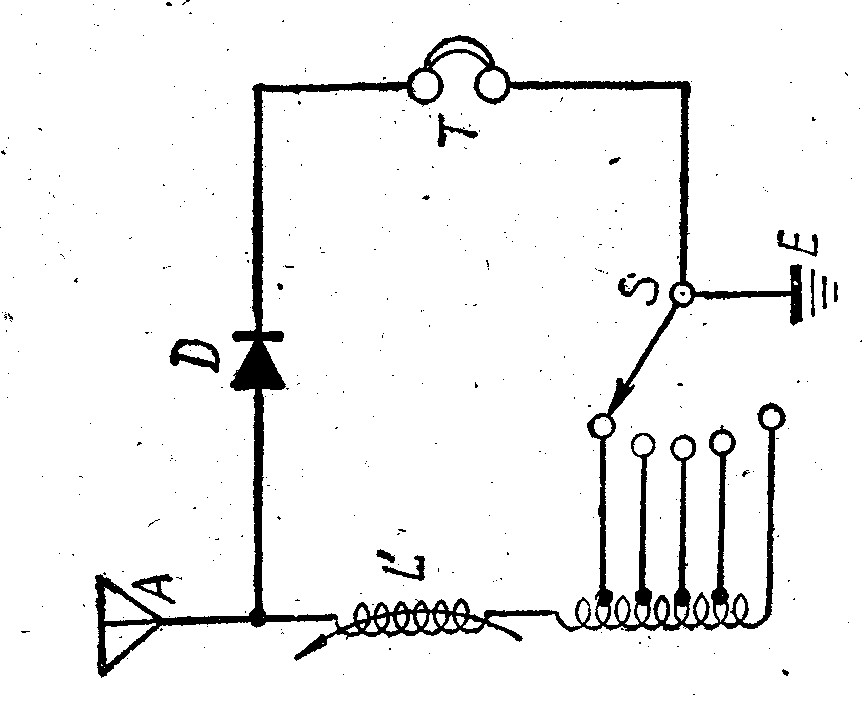
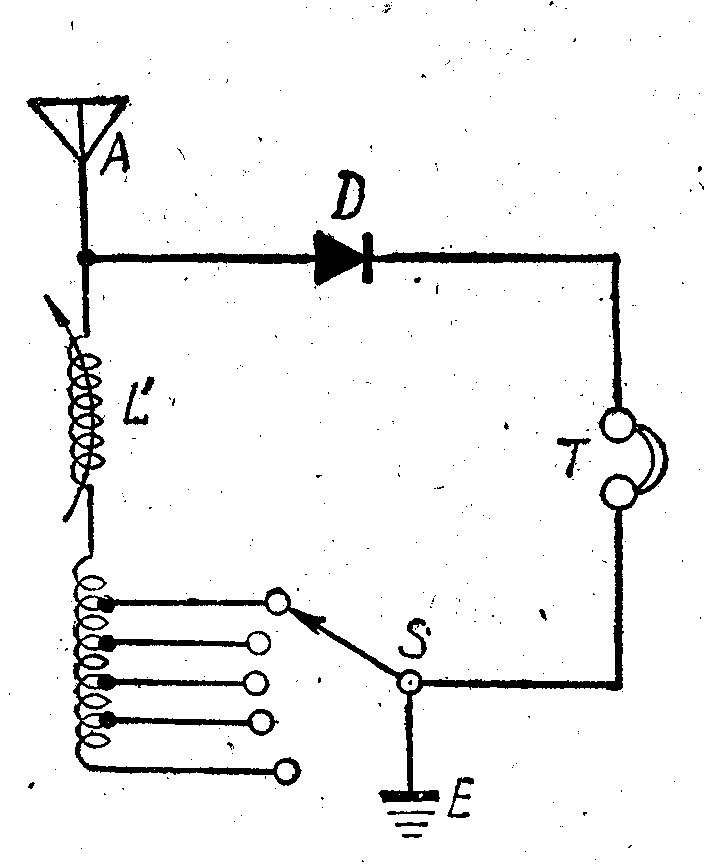
内容更新。

Changed region(s): [[0.0312, 0.0312, 0.9688, 0.9688], [0.6875, 0.2188, 0.7188, 0.25]]

diff --git a/整理中/1_原文校对/无线电设备/矿石收音机.tex b/整理中/1_原文校对/无线电设备/矿石收音机.tex
@@ -958,6 +958,10 @@ f = \frac{1}{T}
 
 将线圈分出一个活动的部分和固定的部分，改变它们相互间的距离或角度便可以改变电感量来完成调谐作用。这两个线圈绕线的方向是相同的，彼此串联着。当它们互相靠近（或者平行或者在一直线上）的时候，电感量最大；互相远离（或者成为直角，反方向等）的时候，电感量最小。
 
+\subsection{蛛网式线圈的制作方法}
+
+为了制作方便起见，这里采用蛛网式线圈作为活动调节，用厚纸剪成两块蛛网板，其中一个齿上留出一块凸出部分，利用它将蛛网板钉牢。将一块作为线圈的固定部分，用直径0.45号漆包线绕40圈，每5圈抽一个头，抽头的绞合端留出约40-50毫米的长度，以便和分线器连接，这样连头尾线共有9个线头；另一块蛛网板作为线圈的活动部分，在上面用同号线绕20圈。线圈见图 \ref{fig:variometer-tuning-ore-radio-diagram}：
+
 \begin{figure}[htbp]
 	\centering
 	\includegraphics[width=0.8\textwidth]{variometer-tuning-ore-radio-diagram.jpg}
@@ -965,15 +969,20 @@ f = \frac{1}{T}
 	\label{fig:variometer-tuning-ore-radio-diagram}
 \end{figure}
 
-\subsection{蛛网式线圈的制作方法}
-
-为了制作方便起见，这里采用蛛网式线圈作为活动调节，用厚纸剪成两块蛛网板，其中一个齿上留出一块凸出部分，利用它将蛛网板钉牢。将一块作为线圈的固定部分，用直径0.45号漆包线绕40圈，每5圈抽一个头，抽头的绞合端留出约40-50毫米的长度，以便和分线器连接，这样连头尾线共有9个线头；另一块蛛网板作为线圈的活动部分，在上面用同号线绕20圈。
-
 \subsection{收听方法与调谐范围}
 
 收听时，两个线圈先行迭合，用分线器作粗调谐，收到电台之后，再将线圈慢慢旋开，直到声音最响为止；当两个电台发生混音的时候，也是变动线圈的距离来调节的。
 
 这种调谐方法，所包括的调谐范围不能很大，因而对于接近广播段两端频率的电台或者不能调到。如果近1,500千赫（kHz）一段的电台接收不到的时候，线圈的活动部分的圈数应减少几圈；又如近550千赫（kHz）一段的电台接收不到的时候，这一部分的圈数要增加几圈；这些圈数，最好依实际情况试验决定。
+
+\subsection{另一种形式的线圈}
+
+\begin{figure}[htbp]
+	\centering
+	\includegraphics[width=0.8\textwidth]{variometer-tuning-ore-radio-diagram1.jpg}
+	\caption{变感器调谐矿石收音机示意图}
+	\label{fig:variometer-tuning-ore-radio-diagram1}
+\end{figure}
 
 \section{调谐精细的矿石收音机}
 